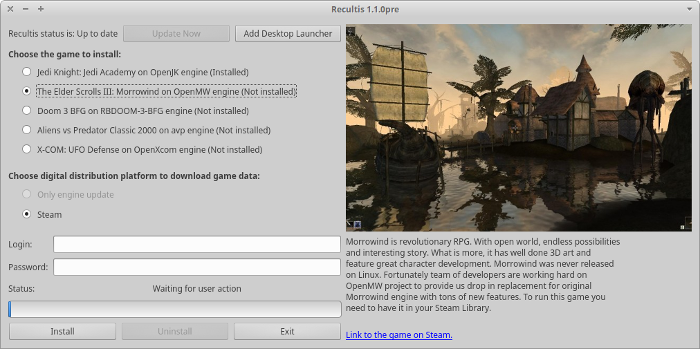
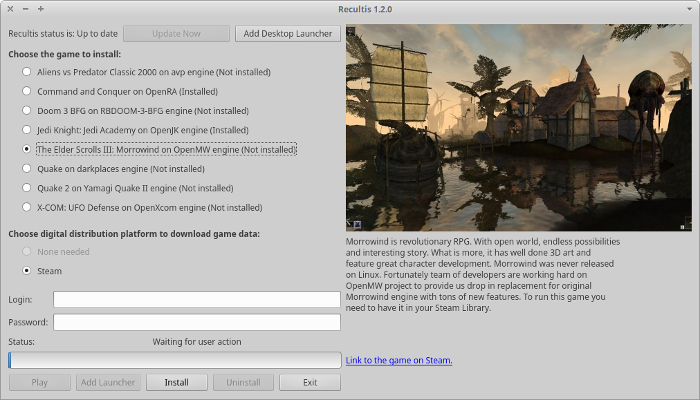
merge bug fixes from master

diff --git a/_layouts/default.html b/_layouts/default.html
@@ -8,6 +8,7 @@
     <meta name="theme-color" content="#157878">
     <link href='https://fonts.googleapis.com/css?family=Open+Sans:400,700' rel='stylesheet' type='text/css'>
     <link rel="stylesheet" href="{{ '/assets/css/style.css?v=' | append: site.github.build_revision | relative_url }}">
+    <link rel="shortcut icon" type="image/png" href="/assets/favicon.png">
   </head>
   <body>
     <section class="page-header">

diff --git a/recultis.py b/recultis.py
@@ -131,9 +131,9 @@ class Window(QWidget):
 		#Don't allow to update Recultis if can't write to its directory.
 		if os.access(self_dir, os.W_OK):
 			self.update_app_thread = SecondThread(1, self.second_thread_list)
+			self.update_app_thread.start()
 		else:
 			self.app_staus_label.setText("Recultis status is: Update disabled")
-		self.update_app_thread.start()
 		self.update_game_thread = SecondThread(2, self.second_thread_list)
 		self.update_game_thread.start()
 	

diff --git a/README.md b/README.md
@@ -3,13 +3,16 @@
 The purpose of this software is to make it easy to combine open source game engines with proprietary content using GUI.
 
 # Required Software
-This application needs Python3 and PyQt5 to display GUI. The games are portable and will work on any Linux distribution. Games require 64bit system.
+This application needs Python3 and PyQt5 to display GUI. The games are portable and will work on any Linux distribution. Games require 64bit system. Steamcmd requires 32 bit libc, libstdc++, libgcc_s.
 
 # Supported Games
+Aliens vs Predator Classic 2000 (avp engine) <br>
+Command & Conquer Game Series (OpenRA engine) <br>
+Doom 3 BFG (RBDoom-3-BFG engine) <br>
 Jedi Knights: Jedi Academy (OpenJK engine) <br>
 The Elder Scrolls III: Morrowind (OpenMW engine) <br>
-Doom 3 BFG (RBDoom-3-BFG engine) <br>
-Aliens vs Predator Classic 2000 (avp engine) <br>
+Quake (darkplaces engine) <br>
+Quake II (Yamagi Quake II engine) <br>
 X-COM: UFO Defense (OpenXcom engine) <br>
 
 # License

diff --git a/index.md b/index.md
@@ -71,6 +71,6 @@ X-COM: UFO Defense is legendary game in which you lead X-COM organization establ
 
 ## [](#header-2)More to come...
 
-There is plenty of games, with open source engines, which Recultis will implement in near future. If your favorite game is still missing, please let us know.
+There are plenty of games, with open source engines, which Recultis will implement in near future. If your favorite game is still missing, please let us know.
 
 ![](https://github.com/makson96/Recultis/raw/master/assets/icon.png)
